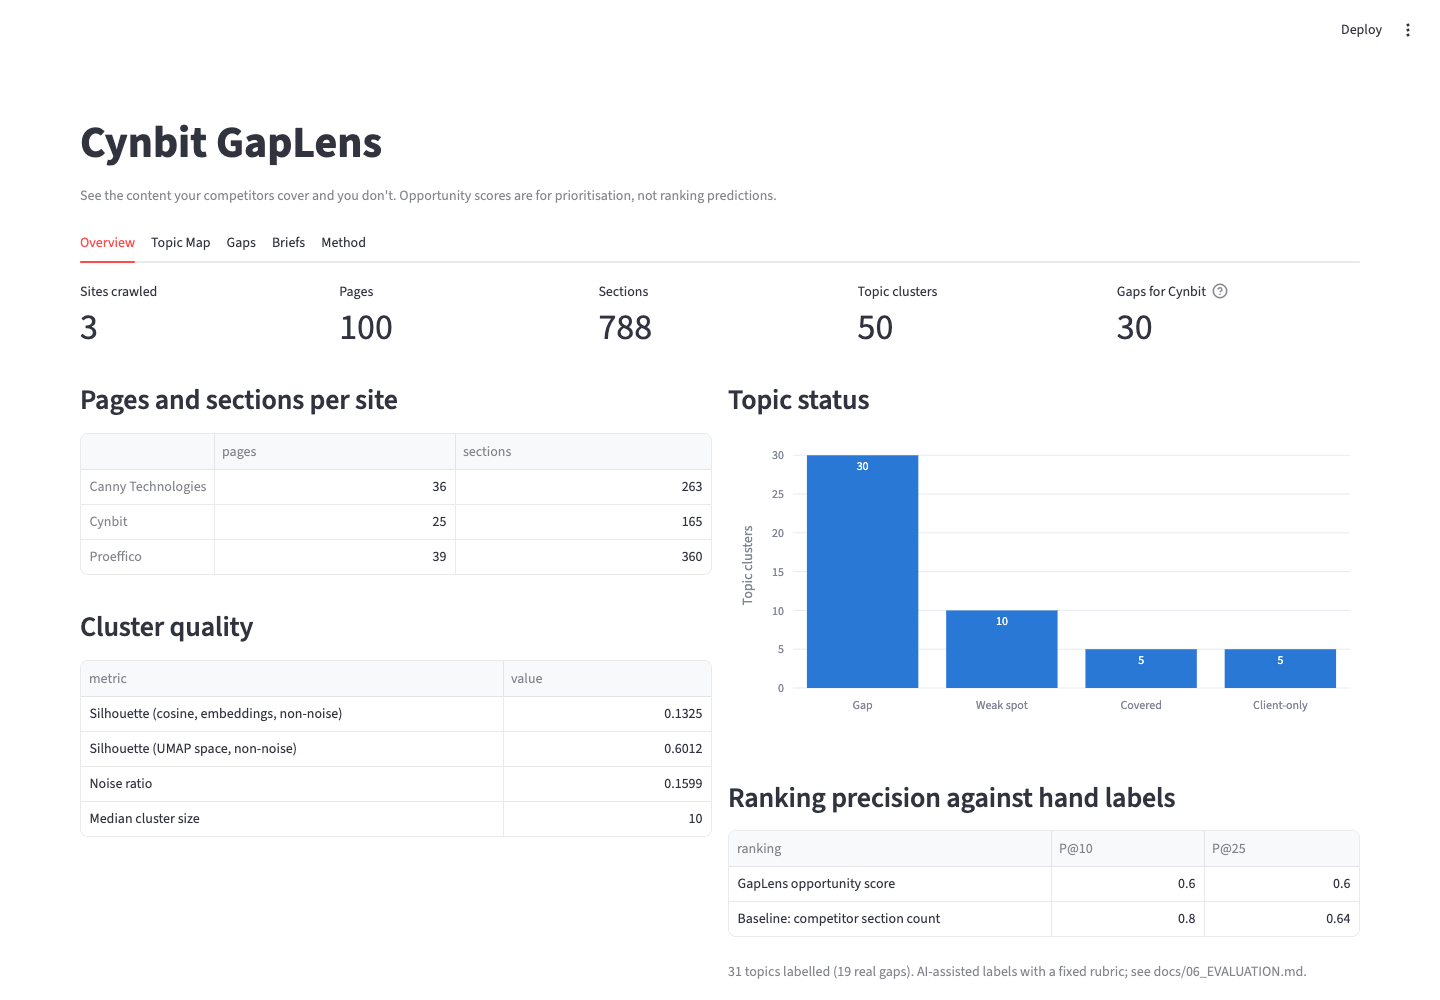
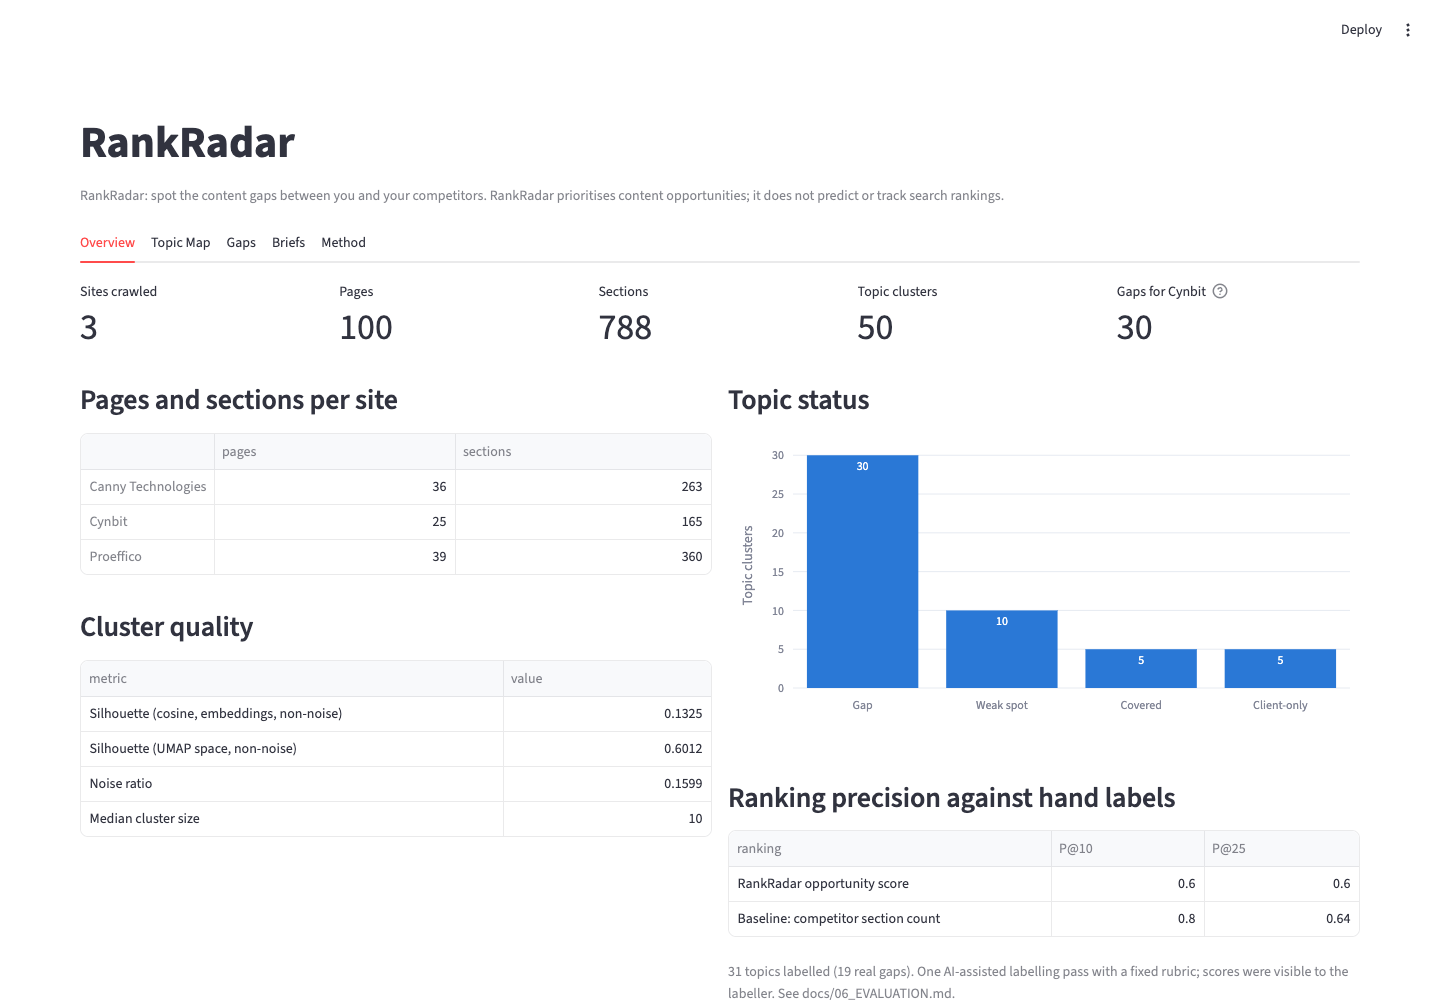
refactor: rename project GapLens to RankRadar
Package, CLI (python -m rankradar.pipeline), crawler User-Agent,
dashboard, notebook, docs, reports and tests now use RankRadar, with the
new tagline and a statement that RankRadar prioritises content
opportunities and does not predict or track rankings. ADR-009 records
the rename. A post-rename --no-llm run reproduces the pre-rename
outputs exactly apart from names.

Changed region(s): [[0.0625, 0.124, 0.6875, 0.217], [0.5, 0.961, 0.9375, 1.0], [0.5, 0.868, 0.625, 0.899]]

diff --git a/app/streamlit_app.py b/app/streamlit_app.py
@@ -1,4 +1,4 @@
-"""GapLens dashboard. Reads precomputed outputs only, so it loads fast and runs on Streamlit Community Cloud.
+"""RankRadar dashboard. Reads precomputed outputs only, so it loads fast and runs on Streamlit Community Cloud.
 
     streamlit run app/streamlit_app.py
 """
@@ -18,13 +18,13 @@ import yaml
 ROOT = Path(__file__).resolve().parents[1]
 sys.path.insert(0, str(ROOT / "src"))
 
-from gaplens.score import apply_scores  # noqa: E402
+from rankradar.score import apply_scores  # noqa: E402
 
 OUT = ROOT / "outputs"
 SITE_COLORS = ["#2a78d6", "#eb6834", "#1baf7a", "#6250d6"]
 NOISE_COLOR = "#b9b8b2"
 
-st.set_page_config(page_title="Cynbit GapLens", layout="wide")
+st.set_page_config(page_title="RankRadar", layout="wide")
 
 
 @st.cache_data
@@ -38,7 +38,7 @@ def load():
 
 
 if not (OUT / "gaps.csv").exists():
-    st.error("No outputs found. Run `python -m gaplens.pipeline --config config.yaml` first.")
+    st.error("No outputs found. Run `python -m rankradar.pipeline --config config.yaml` first.")
     st.stop()
 
 cfg, gaps, tmap, briefs, metrics = load()
@@ -46,8 +46,8 @@ client = next(s["name"] for s in cfg["sites"] if s["role"] == "client")
 site_order = [s["name"] for s in sorted(cfg["sites"], key=lambda s: s["role"] != "client")]
 color_map = {n: SITE_COLORS[i % len(SITE_COLORS)] for i, n in enumerate(site_order)}
 
-st.title("Cynbit GapLens")
-st.caption("See the content your competitors cover and you don't. Opportunity scores are for prioritisation, not ranking predictions.")
+st.title("RankRadar")
+st.caption("RankRadar: spot the content gaps between you and your competitors. RankRadar prioritises content opportunities; it does not predict or track search rankings.")
 
 overview, topic_map, gaps_tab, briefs_tab, method = st.tabs(["Overview", "Topic Map", "Gaps", "Briefs", "Method"])
 
@@ -90,7 +90,7 @@ with overview:
             st.dataframe(
                 pd.DataFrame(
                     {
-                        "ranking": ["GapLens opportunity score", "Baseline: competitor section count"],
+                        "ranking": ["RankRadar opportunity score", "Baseline: competitor section count"],
                         "P@10": [prec["opportunity_score"]["p@10"]["precision"], prec["baseline_competitor_count"]["p@10"]["precision"]],
                         "P@25": [prec["opportunity_score"]["p@25"]["precision"], prec["baseline_competitor_count"]["p@25"]["precision"]],
                     }
@@ -155,7 +155,7 @@ with briefs_tab:
         st.markdown("\n".join(f"- {u}" for u in b["competitor_reference_urls"]))
         if b.get("internal_link_from"):
             st.markdown(f"**Internal link from:** {b['internal_link_from']}")
-        st.caption("Briefs are for human writers. GapLens never generates or publishes articles (see Google's scaled content abuse policy).")
+        st.caption("Briefs are for human writers. RankRadar never generates or publishes articles (see Google's scaled content abuse policy).")
 
 with method:
     st.markdown(

diff --git a/tests/test_basic.py b/tests/test_basic.py
@@ -3,12 +3,12 @@
 import pandas as pd
 import pytest
 
-from gaplens.briefs import template_brief, validate_brief
-from gaplens.config import load_config
-from gaplens.gaps import classify, coverage
-from gaplens.llm import parse_json
-from gaplens.score import classify_intent, opportunity_score, perturbed_weights
-from gaplens.sectionize import sectionize_page
+from rankradar.briefs import template_brief, validate_brief
+from rankradar.config import load_config
+from rankradar.gaps import classify, coverage
+from rankradar.llm import parse_json
+from rankradar.score import classify_intent, opportunity_score, perturbed_weights
+from rankradar.sectionize import sectionize_page
 
 WEIGHTS = {"relevance": 0.4, "competitor_strength": 0.25, "intent": 0.2, "effort": 0.15}
 
@@ -113,7 +113,7 @@ def test_template_brief_is_valid():
 
 
 def test_inline_markdown_recovery_leaves_normal_headings_alone():
-    from gaplens.crawl import recover_inline_markdown
+    from rankradar.crawl import recover_inline_markdown
 
     normal = "Intro text.\n\n## How to choose a vendor\n\nBody text here."
     assert recover_inline_markdown(normal) == normal
@@ -145,7 +145,7 @@ def _gap_row():
 
 
 def test_brief_retries_once_then_uses_llm_output():
-    from gaplens.briefs import build_brief
+    from rankradar.briefs import build_brief
 
     good = ('{"topic": "Approval automation", "why_it_matters": "x", "target_intent": "commercial", '
             '"suggested_title": "t", "outline": [{"h2": "a", "h3": []}, {"h2": "b", "h3": ["c"]}], '
@@ -158,7 +158,7 @@ def test_brief_retries_once_then_uses_llm_output():
 
 
 def test_brief_falls_back_to_template_after_two_failures():
-    from gaplens.briefs import build_brief
+    from rankradar.briefs import build_brief
 
     sections = pd.DataFrame(columns=["section_id", "role", "url", "heading", "text"])
     clusters = pd.DataFrame(columns=["section_id", "cluster_id"])
@@ -167,7 +167,7 @@ def test_brief_falls_back_to_template_after_two_failures():
 
 
 def test_copy_check_flags_verbatim_competitor_wording():
-    from gaplens.briefs import copied_phrases
+    from rankradar.briefs import copied_phrases
 
     source = "What are the processes that consume disproportionate manual effort every cycle in your team?"
     brief = {"topic": "Ops", "why_it_matters": "x", "suggested_title": "t", "outline": [],
@@ -178,7 +178,7 @@ def test_copy_check_flags_verbatim_competitor_wording():
 
 
 def test_brief_with_copied_text_retries_then_falls_back():
-    from gaplens.briefs import build_brief
+    from rankradar.briefs import build_brief
 
     sections = pd.DataFrame(
         {"section_id": ["s1"], "role": ["competitor"], "url": ["https://a.test/1"], "heading": ["H"],

diff --git a/src/rankradar/crawl.py b/src/rankradar/crawl.py
@@ -76,9 +76,9 @@ def load_robots(session: PoliteSession, base_url: str) -> RobotFileParser:
     except requests.RequestException as exc:
         log.warning("robots.txt unreachable for %s (%s); treating site as disallowed", parts.netloc, exc)
         rp.disallow_all = True
-        rp.gaplens_note = f"robots.txt unreachable ({type(exc).__name__}); treated as full disallow per RFC 9309"
+        rp.rankradar_note = f"robots.txt unreachable ({type(exc).__name__}); treated as full disallow per RFC 9309"
         return rp
-    rp.gaplens_note = f"robots.txt HTTP {resp.status_code}"
+    rp.rankradar_note = f"robots.txt HTTP {resp.status_code}"
     if resp.status_code in (401, 403) or resp.status_code >= 500:
         rp.disallow_all = True
     elif resp.status_code >= 400:
@@ -235,7 +235,7 @@ def crawl_site(site: dict[str, Any], crawl_cfg: dict[str, Any], log_event, html_
         session.delay = max(session.delay, float(robots_delay))
 
     if not rp.can_fetch(session.user_agent, site["listing_urls"][0]):
-        note = getattr(rp, "gaplens_note", "")
+        note = getattr(rp, "rankradar_note", "")
         log_event(site["listing_urls"][0], "site_skipped_robots", f"{note}; crawling not permitted for {session.user_agent!r}")
         log.warning("Skipping %s: %s", site["name"], note)
         return
@@ -328,7 +328,7 @@ def load_pages(path: Path) -> list[dict[str, Any]]:
 
 
 if __name__ == "__main__":
-    from gaplens.config import load_config
+    from rankradar.config import load_config
 
     logging.basicConfig(level=logging.INFO, format="%(levelname)s %(message)s")
     counts = run_crawl(load_config())

diff --git a/src/rankradar/pipeline.py b/src/rankradar/pipeline.py
@@ -1,6 +1,6 @@
-"""Run the full GapLens pipeline.
+"""Run the full RankRadar pipeline.
 
-    python -m gaplens.pipeline --config config.yaml [--skip-crawl] [--no-llm]
+    python -m rankradar.pipeline --config config.yaml [--skip-crawl] [--no-llm]
 """
 
 from __future__ import annotations
@@ -17,11 +17,11 @@ from typing import Any
 import numpy as np
 import pandas as pd
 
-from gaplens import briefs, cluster, crawl, embed, evaluate, gaps, label, score, sectionize
-from gaplens.config import load_config
-from gaplens.llm import LLMClient, llm_available
+from rankradar import briefs, cluster, crawl, embed, evaluate, gaps, label, score, sectionize
+from rankradar.config import load_config
+from rankradar.llm import LLMClient, llm_available
 
-log = logging.getLogger("gaplens")
+log = logging.getLogger("rankradar")
 
 
 @contextmanager
@@ -139,7 +139,7 @@ def run(config_path: str, skip_crawl: bool = False, no_llm: bool = False) -> dic
 
 
 def main() -> None:
-    parser = argparse.ArgumentParser(description="Run the GapLens pipeline.")
+    parser = argparse.ArgumentParser(description="Run the RankRadar pipeline.")
     parser.add_argument("--config", default="config.yaml")
     parser.add_argument("--skip-crawl", action="store_true", help="reuse data/raw/pages.jsonl")
     parser.add_argument("--no-llm", action="store_true", help="keyword labels and template briefs only")

diff --git a/src/rankradar/label.py b/src/rankradar/label.py
@@ -16,7 +16,7 @@ import numpy as np
 import pandas as pd
 from sklearn.feature_extraction.text import CountVectorizer, ENGLISH_STOP_WORDS
 
-from gaplens.sectionize import embedding_text
+from rankradar.sectionize import embedding_text
 
 log = logging.getLogger(__name__)
 
@@ -88,7 +88,7 @@ def keywords_for_clusters(docs: dict[int, str], embed_model, top_k: int, extra_s
 
 def llm_topic_name(client, excerpts: list[str], keywords: list[str], cluster_id: int) -> str | None:
     """Ask the LLM for a short topic name; None on any failure."""
-    from gaplens.llm import parse_json
+    from rankradar.llm import parse_json
 
     user = (
         f"Keywords: {', '.join(keywords)}\n\nExcerpts:\n"
@@ -111,7 +111,7 @@ def run_label(
     llm_client=None,
 ) -> dict[int, dict[str, Any]]:
     """Label every non-noise cluster; write cluster_labels.json and return the mapping."""
-    from gaplens.embed import load_model
+    from rankradar.embed import load_model
 
     lc = cfg["labeling"]
     labels = clusters["cluster_id"].to_numpy()

diff --git a/src/rankradar/score.py b/src/rankradar/score.py
@@ -16,7 +16,7 @@ from typing import Any
 import numpy as np
 import pandas as pd
 
-from gaplens.gaps import GAP, WEAK
+from rankradar.gaps import GAP, WEAK
 
 COMPONENTS = ("relevance", "competitor_strength", "intent", "effort")
 
@@ -230,7 +230,7 @@ def sensitivity(df: pd.DataFrame, weights: dict[str, float], delta: float, top_k
 
 def run_score(cfg: dict[str, Any], scored: pd.DataFrame) -> tuple[pd.DataFrame, dict[str, Any]]:
     """Compute scores and reasons, sort, write gaps.csv; return (table, sensitivity results)."""
-    from gaplens.config import client_site
+    from rankradar.config import client_site
 
     weights = cfg["scoring"]["weights"]
     n_comp = scored.attrs.get("n_competitors") or sum(1 for s in cfg["sites"] if s["role"] == "competitor")

diff --git a/src/rankradar/briefs.py b/src/rankradar/briefs.py
@@ -168,7 +168,7 @@ def build_brief(
     llm_client=None,
 ) -> dict[str, Any]:
     """One brief: LLM fields (validated, one retry) or template fields, plus code-filled fields."""
-    from gaplens.llm import parse_json
+    from rankradar.llm import parse_json
 
     body, source, attempts, failures = None, "template", 0, []
     if llm_client is not None:
@@ -234,7 +234,7 @@ def run_briefs(
     llm_client=None,
 ) -> list[dict[str, Any]]:
     """Generate briefs for the top-N scored gaps and write briefs.json."""
-    from gaplens.config import client_site
+    from rankradar.config import client_site
 
     client = client_site(cfg)
     services = " ".join(open(cfg["paths"]["services_text"], encoding="utf-8").read().split())[:900]

diff --git a/src/rankradar/sectionize.py b/src/rankradar/sectionize.py
@@ -166,7 +166,7 @@ def sectionize(pages: list[dict[str, Any]], min_words: int, max_words: int, boil
 
 def run_sectionize(cfg: dict[str, Any]) -> pd.DataFrame:
     """Read pages.jsonl, write sections.parquet."""
-    from gaplens.crawl import load_pages
+    from rankradar.crawl import load_pages
 
     sc = cfg["sectionize"]
     df = sectionize(load_pages(cfg["paths"]["pages"]), sc["min_words"], sc["max_words"], sc["boilerplate_min_pages"])

diff --git a/src/rankradar/evaluate.py b/src/rankradar/evaluate.py
@@ -133,7 +133,7 @@ def label_metrics(
 
     # Post-hoc ablation: drop one component at a time (other weights rescaled to sum to 1).
     # Diagnostic only; the shipped weights are not tuned on these labels.
-    from gaplens.score import apply_scores
+    from rankradar.score import apply_scores
 
     weights = weights_used or {}
     ablation = {}

diff --git a/src/rankradar/embed.py b/src/rankradar/embed.py
@@ -11,7 +11,7 @@ from typing import Any
 import numpy as np
 import pandas as pd
 
-from gaplens.sectionize import embedding_text
+from rankradar.sectionize import embedding_text
 
 log = logging.getLogger(__name__)
 

diff --git a/src/rankradar/llm.py b/src/rankradar/llm.py
@@ -8,7 +8,7 @@ import re
 import time
 from typing import Any
 
-from gaplens.config import get_api_key
+from rankradar.config import get_api_key
 
 log = logging.getLogger(__name__)
 

diff --git a/src/rankradar/config.py b/src/rankradar/config.py
@@ -1,4 +1,4 @@
-"""Configuration loading for GapLens."""
+"""Configuration loading for RankRadar."""
 
 from __future__ import annotations
 
